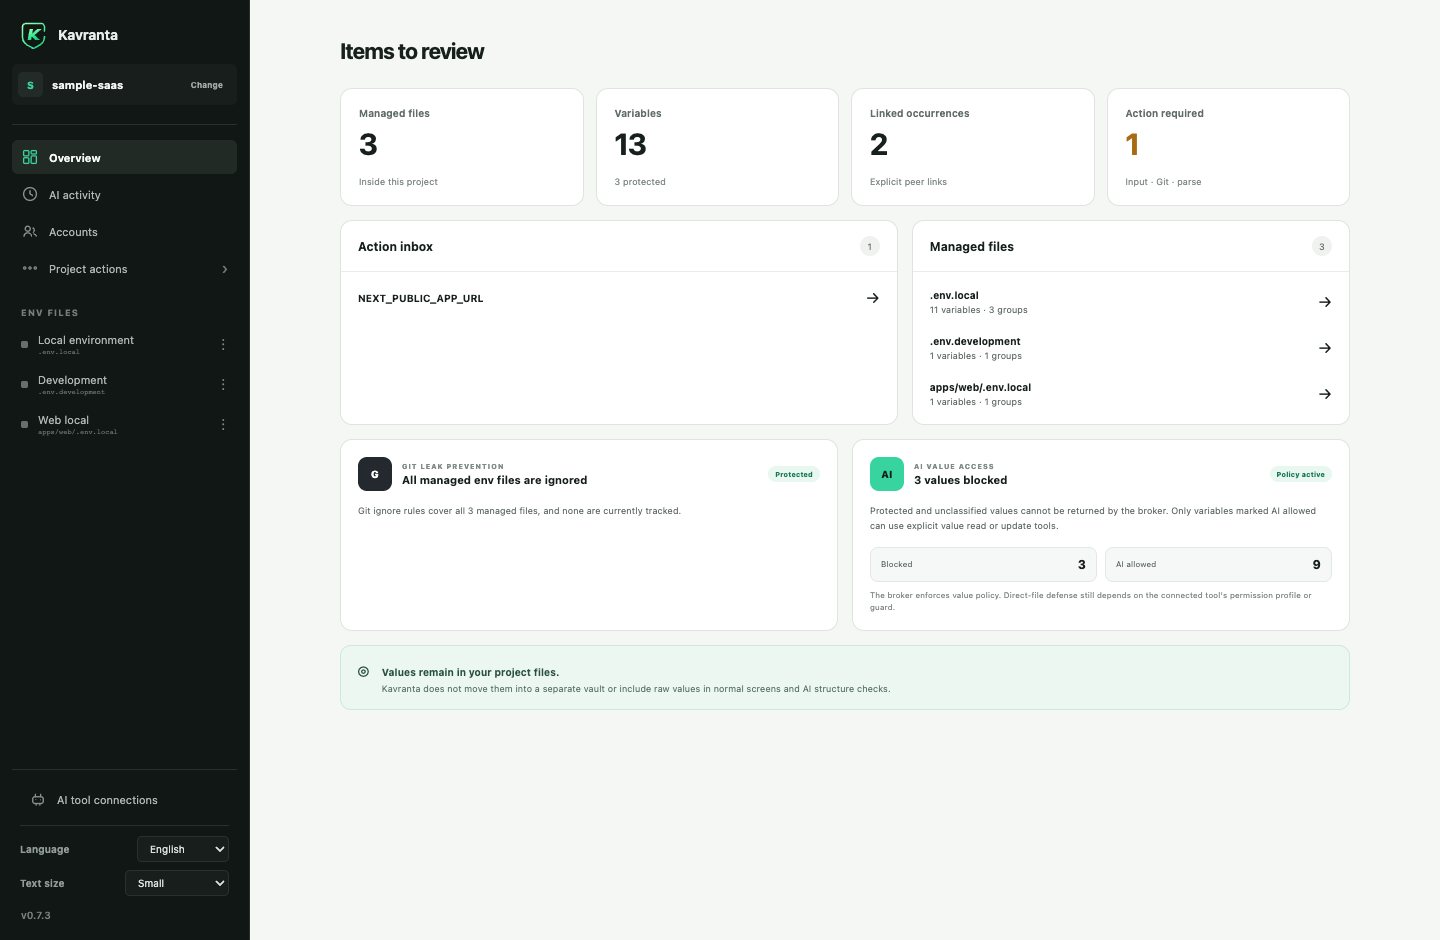
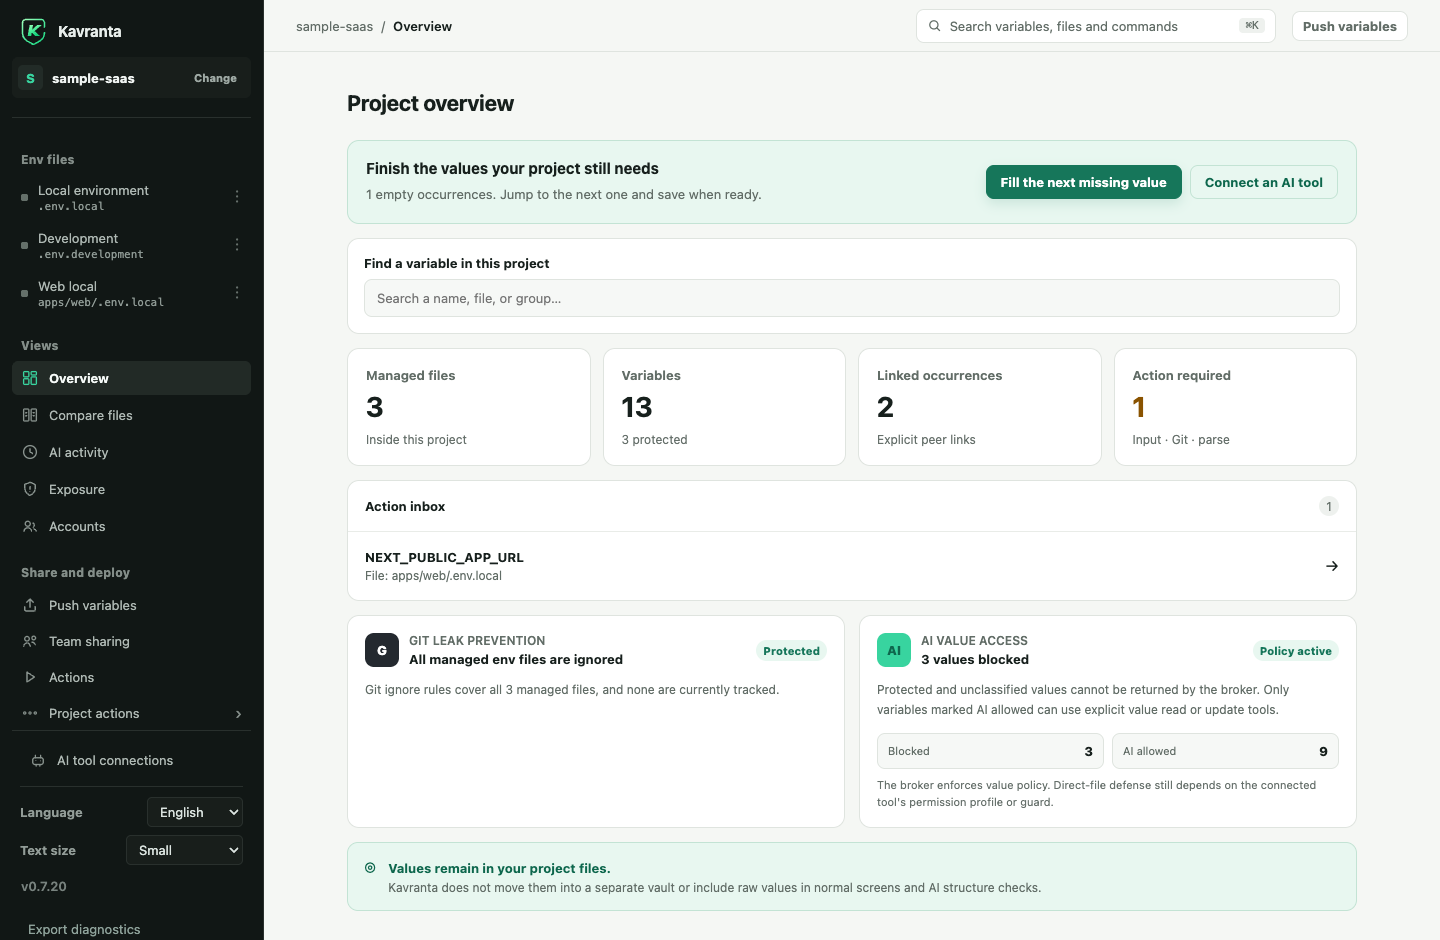
Kavranta 0.7.20: a redesigned workspace
Version bump plus release notes and refreshed README/README.ko for the
redesign: new sections and screenshots for Compare files, the Source view,
the Cmd+K palette and the push review step, updated first-run steps for
staged saves, and the Claude desktop app detection note.

The README media script follows the new navigation (sidebar Push, Team
sharing and Compare entries, Project actions menu) and captures the four new
screens. Demo-mode comparison data is now a curated synthetic table so the
screenshot shows differing, identical and missing rows.

0.7.x per RELEASE_MATURITY.md: a UI redesign with no storage change does not
open a new minor. Agent Bundle stays 2.7.0.

diff --git a/src/lib/demo.ts b/src/lib/demo.ts
@@ -281,30 +281,28 @@ function demoVariable(
   };
 }
 
-export const demoComparison: ValueComparison = (() => {
-  const files = demoProjection.files.map((file) => file.path);
-  const keys = [
-    ...new Set(demoProjection.files.flatMap((file) => file.groups.flatMap((group) => group.variables.map((variable) => variable.key)))),
-  ].sort();
-  return {
-    files,
-    rows: keys.map((key, keyIndex) => {
-      const seen: number[] = [];
-      return {
-        key,
-        cells: demoProjection.files.map((file, fileIndex): ValueComparisonCell => {
-          const variable = file.groups.flatMap((group) => group.variables).find((entry) => entry.key === key);
-          if (!variable) return { state: "missing" };
-          if (variable.valueState === "empty") return { state: "empty" };
-          // Every third name holds a different value in each file; the rest match.
-          const token = keyIndex % 3 === 0 ? fileIndex : -1;
-          if (!seen.includes(token)) seen.push(token);
-          return { state: "present", group: seen.indexOf(token) };
-        }),
-      };
-    }),
-  };
-})();
+const same = (group: number): ValueComparisonCell => ({ state: "present", group });
+const missing: ValueComparisonCell = { state: "missing" };
+const empty: ValueComparisonCell = { state: "empty" };
+
+/** Synthetic equality states only; demo mode never has values to compare. */
+export const demoComparison: ValueComparison = {
+  files: [".env.local", ".env.development", "apps/web/.env.local"],
+  rows: [
+    { key: "APP_ENV", cells: [same(0), same(1), same(2)] },
+    { key: "DATABASE_POOL_SIZE", cells: [same(0), same(0), missing] },
+    { key: "DATABASE_SCHEMA", cells: [same(0), same(0), same(0)] },
+    { key: "DATABASE_URL", cells: [same(0), same(1), missing] },
+    { key: "ENABLE_CACHE", cells: [same(0), same(0), same(0)] },
+    { key: "GPT_API_KEY", cells: [same(0), same(0), same(0)] },
+    { key: "GPT_MODEL", cells: [same(0), same(1), same(1)] },
+    { key: "LOG_LEVEL", cells: [same(0), same(1), same(0)] },
+    { key: "NEXT_PUBLIC_APP_URL", cells: [missing, missing, empty] },
+    { key: "OPENAI_BASE_URL", cells: [same(0), same(0), same(0)] },
+    { key: "PORT", cells: [same(0), same(0), same(1)] },
+    { key: "SESSION_TTL", cells: [same(0), empty, missing] },
+  ],
+};
 
 export function demoRedactedSource(path: string): RedactedSourceLine[] {
   const file = demoProjection.files.find((entry) => entry.path === path);

diff --git a/README.md b/README.md
@@ -29,10 +29,11 @@ the [first-launch notes](#windows-first-launch) before installing.
 
 1. Open Kavranta and choose your existing project folder. Registration discovers
    supported files without changing them.
-2. Open a file, turn on **Missing values only**, and fill one empty variable. If all
-   values are present, review an existing variable instead.
-3. Check which files Save will affect, then save when ready. Keep using your normal
-   development command. Same-name variables are independent unless you link them.
+2. Open a file, choose the **Empty** filter, and type a value. Edits stay pending
+   (highlighted, with Revert) until you save, so you can fill several at once.
+3. The save bar lists every file Save will touch. Press **Save** or ⌘S when ready,
+   then keep using your normal development command. Same-name variables are
+   independent unless you link them.
 
 Connecting an AI agent is optional. No hosted account or new runtime is required
 for local editing. If no files appear, follow the project's setup guide and refresh;
@@ -45,7 +46,7 @@ example/template files are intentionally excluded and are not copied automatical
 <details>
   <summary>Watch the broader workflow (synthetic data)</summary>
 
-![Kavranta demo showing project overview, env editing, AWS deployment, team sharing, and AI tool connections](assets/screenshots/kavranta-demo.gif)
+![Kavranta demo showing the project overview, file table, source view, file comparison, ⌘K search, AWS push, and AI tool connections](assets/screenshots/kavranta-demo.gif)
 
 </details>
 
@@ -71,30 +72,56 @@ Kavranta is a local-first desktop app. Register a project and it discovers the r
 | **Share without committing env files** | **Deploy only what you select** | **Catch Git mistakes early** |
 | Export all or selected variables as a passphrase-encrypted package, or publish immutable packages through a mounted team folder. | Send selected values to GitHub Actions, Cloudflare Workers, Expo EAS, AWS, or a locally installed CLI Pack without creating a temporary env file. | Detect missing ignore rules, already tracked env files, historical paths, and suspicious public frontend variable names. |
 | **Finish incomplete setup faster** | **Keep reusable accounts out of project files** | **Grant access per project** |
-| Filter an env file to only variables that still need a value, with the remaining count visible at a glance. | Store optional usernames and passwords in Apple Keychain or Windows Credential Manager instead of `.env`, Git, or Kavranta's local metadata. | New accounts start blocked. Explicitly allow or revoke each project; a grant never lets an AI agent run a login on its own. |
+| Filter an env file to empty, pending, or AI-blocked variables, stage several edits, and save them together with ⌘S. | Store optional usernames and passwords in Apple Keychain or Windows Credential Manager instead of `.env`, Git, or Kavranta's local metadata. | New accounts start blocked. Explicitly allow or revoke each project; a grant never lets an AI agent run a login on its own. |
+| **See which files disagree** | **Review before anything leaves** | **Find anything with ⌘K** |
+| Compare every variable across local, development, and app env files. Kavranta shows only same/different/missing—never the values. | Every push shows the destination, source file, and each name first, and warns when a provider cannot undo a replacement. | Jump to any variable, file, view, or command by name. ⌘↵ copies a value without opening the file. Search never reads values. |
 
 ## See the workflow
 
-### Included in the 0.7.6 release
+### New in 0.7.20: a redesigned workspace
 
-Project-wide metadata search, direct navigation to a missing variable, and combined
-name/missing-value filters are implemented in this source tree. Search does not
-inspect values, and changing filters preserves unsaved drafts. The separate
-[website](https://haechan1103.github.io/kavranta/) includes an EN/KO sample-linking
-playground hosted as static assets on GitHub Pages.
+The whole app was rebuilt around how env files are actually edited: one table per
+file, a details panel beside it, and changes you review before they are written.
+It follows your system's light or dark appearance and uses one readable type scale
+throughout.
+
+<table>
+  <tr>
+    <td width="50%"><strong>Compare files</strong><br />Every name against every env file: Set, Value A/B/C, Empty, or Missing. "Differences only" shows what needs attention. Equality is computed in Rust; no value reaches the screen.</td>
+    <td width="50%"><strong>Source view</strong><br />See the file exactly as it is laid out—comments, groups, and order—with every value masked. Commented-out secrets and unreadable lines are withheld entirely.</td>
+  </tr>
+  <tr>
+    <td><img src="assets/screenshots/kavranta-compare-files.png" alt="Compare files view showing which variables differ across three env files without showing values" /></td>
+    <td><img src="assets/screenshots/kavranta-source-view.png" alt="Source view of an env file with comments, groups, and masked values" /></td>
+  </tr>
+  <tr>
+    <td width="50%"><strong>⌘K palette</strong><br />Search variable names, files, views, and commands from anywhere. It says plainly that it never searches values.</td>
+    <td width="50%"><strong>Push review</strong><br />Confirm the destination, source file, and every name before a value leaves your computer.</td>
+  </tr>
+  <tr>
+    <td><img src="assets/screenshots/kavranta-command-palette.png" alt="Command palette listing matching variable names" /></td>
+    <td><img src="assets/screenshots/kavranta-push-review.png" alt="Push review step listing destination, source file, and variable names" /></td>
+  </tr>
+</table>
+
 See [ROADMAP.md](ROADMAP.md) for verification gates and work still outstanding.
 
 ### Organize real env files, not copies
 
-Projects and files can have local display names while their physical paths remain visible and unchanged. Values are masked by default; variable names can be copied, groups can be jumped to quickly, and linked rows show every file affected by Save.
+Each file is one table: name and description, the masked value with reveal and copy,
+AI access, and which other files share the key. Click a row for its details—description,
+linked files, setup guide, recent AI activity—without leaving the table. Edits and
+deletions stay pending until you save, and the save bar names every file Save will
+touch, including linked members. Projects and files can have display names while
+their physical paths stay visible and unchanged.
 
-![Kavranta file editor with masked synthetic values, linked files, and group navigation](assets/screenshots/kavranta-editor.png)
+![Kavranta file editor table with a pending edit, the details panel, and the save bar](assets/screenshots/kavranta-editor.png)
 
 ### Know what needs attention
 
 The project overview combines missing values, parse warnings, Git leak checks, and
 managed-file navigation without reading values for those checks. AI policy stays in
-the owning variable row. Inside a file, turn on **Missing values only** to focus on
+the owning variable row. Inside a file, choose the **Empty** filter to focus on
 unfinished setup.
 
 ![Kavranta project overview with Git safety and AI access status](assets/screenshots/kavranta-overview.png)
@@ -139,7 +166,7 @@ For a server env file outside a project, an administrator can install the fixed 
 
 ![Compare selected local variables with an allowlisted server Runtime through the encrypted verifier](assets/screenshots/kavranta-runtime-compare.png)
 
-Provider push is always explicit and one-way. GitHub and Cloudflare secret values cannot be read back, so Kavranta does not pretend to verify them. AWS and registered Runtime targets expose a separate comparison operation that returns only equality states. Unselected remote entries are never deleted.
+Every push opens a review step before anything is sent: destination, source file, each name with its remote type, and a warning when the provider keeps no previous value. Provider push is always explicit and one-way. GitHub and Cloudflare secret values cannot be read back, so Kavranta does not pretend to verify them. AWS and registered Runtime targets expose a separate comparison operation that returns only equality states. Unselected remote entries are never deleted.
 
 ## Supported deployment targets
 
@@ -198,6 +225,9 @@ OpenCode after installation or an update.
 claude plugin marketplace add haechan1103/kavranta
 claude plugin install kavranta@kavranta
 ```
+
+On macOS, Kavranta also detects the Claude Code copy bundled with the Claude desktop
+app, so the connection can be installed from the AI tools screen without a separate CLI.
 </details>
 
 <details>

diff --git a/RELEASE_NOTES.md b/RELEASE_NOTES.md
@@ -1,23 +1,37 @@
-# Kavranta 0.7.19 — Dependency security fixes
+# Kavranta 0.7.20 — A redesigned workspace
 
-- **Three dependency advisories are resolved.** `aws-smithy-json` reached `0.61.9` through
-  the AWS SDK crates the provider push uses, and the advisory covers `<= 0.62.6`. Because
-  those crates were pinned to exact versions, the fix moves the pins: `aws-config` `1.12.0`,
-  `aws-sdk-secretsmanager` `1.120.0`, `aws-sdk-ssm` `1.128.0`, `aws-sdk-kms` `1.123.0`,
-  `aws-sdk-sts` `1.119.0`. The tree now resolves to a single `aws-smithy-json 0.63.1`, past
-  the patched `0.62.7`. `rustls` moved to `0.23.45` for its TLS 1.3 advisory. A
-  `source-map-js` override pins `^1.2.2`; that one is build- and test-time only and never
-  ships.
-- **Dependency auditing now runs in CI.** A daily schedule, a lockfile push to `main`, and a
-  manual run check `cargo audit` over `Cargo.lock` and `npm audit --audit-level=high` over
-  `package-lock.json`. The existing dependency review only inspects the packages a pull
-  request adds, so an advisory published later against a dependency that has been present
-  for months was invisible. These three arrived that way and were reported by email instead
-  of by a failing build. That is what changed.
+- **One table per env file.** Each row shows the name and description, the masked
+  value with reveal and copy, AI access, and which other files share the key. Filter
+  by Empty, Pending, or AI cannot read; select rows to mark several for deletion.
+- **Edits are staged and saved together.** Typed values and deletions stay pending,
+  highlighted with Revert, until you press Save or ⌘S. The save bar names every file
+  Save will touch, including linked members, asks once before deleting, and keeps any
+  item that failed pending with its name. Leaving a file with pending changes asks
+  first, and a file changed outside Kavranta keeps what you typed.
+- **A details panel beside the table.** Click a row for its description, AI access,
+  linked files, setup guide, recent AI activity, Move, and Mark for deletion. On narrow
+  windows it opens as a drawer; ⌘I toggles it.
+- **Compare files.** A new view lists every variable against every env file as Set,
+  Value A/B/C, Empty, Missing, or Defined twice, with "Differences only". Equality is
+  computed in Rust per request; no value, length, or hash is returned, stored, or
+  offered to AI agents.
+- **Source view.** A Table / Source switch shows the file's own order, comments, and
+  groups with every value masked. Commented-out assignments, secret-like comments, and
+  unreadable lines are withheld by the backend.
+- **Review before pushing.** Push variables now shows the destination, source file,
+  each name with its remote type, and a warning when the provider keeps no previous
+  value. Nothing is sent until you press Push on that step.
+- **⌘K search and a top bar.** Find any variable name, file, view, or command from
+  anywhere; ⌘↵ copies a value without opening the file. Search never reads values.
+- **Readable everywhere.** One type scale with platform minimum sizes, AA contrast,
+  plainer wording, app-owned confirmation dialogs, errors that stay until dismissed,
+  and automatic light or dark appearance. The sidebar lists env files first.
+- **Claude desktop app detection.** On macOS, the Claude Code copy bundled with the
+  Claude desktop app is detected, so the Kavranta connection installs without a
+  separate CLI.
 
-This release changes no application behavior beyond the dependency versions. It adds no
-background network access, sends nothing anywhere, and no value readback. The Agent Bundle
-remains **2.7.0**.
+This release adds no network access, telemetry, or value readback. Project manifests
+and app data from earlier versions load unchanged. The Agent Bundle remains **2.7.0**.
 
 ## Install
 
@@ -29,26 +43,38 @@ remains **2.7.0**.
 
 ---
 
-# Kavranta 0.7.19 — 의존성 보안 수정
+# Kavranta 0.7.20 — 새로 설계한 작업 화면
 
-- **의존성 권고 3건을 해결했습니다.** `aws-smithy-json`이 provider 푸시에 쓰는 AWS SDK
-  크레이트를 통해 `0.61.9`로 들어왔고, 권고 범위는 `<= 0.62.6`이었습니다. 해당 크레이트가
-  정확 버전으로 고정돼 있어 핀을 올렸습니다: `aws-config` `1.12.0`,
-  `aws-sdk-secretsmanager` `1.120.0`, `aws-sdk-ssm` `1.128.0`, `aws-sdk-kms` `1.123.0`,
-  `aws-sdk-sts` `1.119.0`. 이제 `aws-smithy-json 0.63.1` 단일 버전으로 해석되며, 패치된
-  `0.62.7`을 넘습니다. `rustls`는 TLS 1.3 권고로 `0.23.45`가 되었습니다.
-  `source-map-js`는 `^1.2.2`로 고정했으며, 이 패키지는 빌드·테스트 전용이라 배포물에
-  포함되지 않습니다.
-- **의존성 감사가 CI에서 돌아갑니다.** 매일 스케줄, `main`으로의 lockfile push, 수동
-  실행에서 `Cargo.lock`에 대한 `cargo audit`과 `package-lock.json`에 대한
-  `npm audit --audit-level=high`를 수행합니다. 기존 dependency review는 pull request가
-  추가한 패키지만 검사하므로, 수개월 전부터 있던 의존성에 나중에 공개된 권고는 보이지
-  않았습니다. 이번 3건이 정확히 그 경로로 왔고, 실패한 빌드가 아니라 이메일로
-  보고되었습니다. 그것을 바꿨습니다.
+- **env 파일마다 하나의 표.** 한 줄에 이름과 설명, 보기·복사가 되는 가려진 값, AI 접근,
+  같은 키를 쓰는 다른 파일이 나옵니다. 비어 있음·변경 대기·AI 읽기 불가로 거르고, 여러
+  행을 골라 한 번에 삭제 표시할 수 있습니다.
+- **수정은 모아 두었다가 한 번에 저장.** 입력한 값과 삭제는 저장 또는 ⌘S를 누를 때까지
+  되돌리기와 함께 대기 상태로 표시됩니다. 저장 바는 연결된 파일까지 저장으로 바뀌는
+  파일을 모두 알려주고, 삭제 전에는 한 번만 묻고, 실패한 항목은 이름과 함께 대기 상태로
+  남깁니다. 대기 중인 변경이 있으면 파일을 떠나기 전에 묻고, 다른 곳에서 파일이 바뀌어도
+  입력한 값은 유지합니다.
+- **표 옆의 상세 패널.** 행을 누르면 설명, AI 접근, 연결된 파일, 설정 가이드, 최근 AI 활동,
+  그룹 이동, 삭제 표시를 볼 수 있습니다. 좁은 창에서는 서랍으로 열리며 ⌘I로 여닫습니다.
+- **파일 비교.** 새 화면에서 모든 변수를 모든 env 파일과 맞대어 있음, 값 A/B/C, 비어 있음,
+  없음, 중복 정의로 보여주고 "차이만 보기"를 제공합니다. 같은지 여부는 요청마다 Rust에서
+  계산하며 값·길이·해시를 돌려주거나 저장하거나 AI 에이전트에 제공하지 않습니다.
+- **파일 원문 보기.** 표 / 파일 원문 전환으로 파일에 적힌 순서, 주석, 그룹을 값은 모두
+  가린 채 볼 수 있습니다. 주석 처리된 할당, 비밀처럼 보이는 주석, 해석할 수 없는 줄은
+  백엔드에서 내용을 보내지 않습니다.
+- **올리기 전 검토.** 환경변수 올리기가 보낼 곳, 가져올 파일, 변수별 원격 유형을 먼저
+  보여주고, 이전 값을 보관하지 않는 대상이면 경고합니다. 그 단계에서 올리기를 눌러야
+  전송됩니다.
+- **⌘K 검색과 상단 바.** 어디서든 변수 이름, 파일, 화면, 명령을 찾고, ⌘↵로 파일을 열지
+  않고 값을 복사합니다. 검색은 값을 읽지 않습니다.
+- **어디서나 읽기 쉽게.** 플랫폼 최소 크기를 지키는 하나의 글자 크기 체계, AA 대비, 더
+  쉬운 문구, 앱 자체 확인 창, 닫을 때까지 남는 오류, 자동 라이트·다크 모드를 적용했습니다.
+  사이드바는 env 파일을 맨 위에 둡니다.
+- **Claude 데스크톱 앱 감지.** macOS에서 Claude 데스크톱 앱에 포함된 Claude Code를
+  감지하므로, 별도 CLI 없이 Kavranta 연결을 설치할 수 있습니다.
 
-이 릴리스는 의존성 버전 외에 애플리케이션 동작을 바꾸지 않습니다. 백그라운드 네트워크
-접근을 추가하지 않고, 아무것도 전송하지 않으며, 값 되읽기도 없습니다. Agent Bundle은
-**2.7.0**으로 유지됩니다.
+이 릴리스는 네트워크 접근, 텔레메트리, 값 되읽기를 추가하지 않습니다. 이전 버전의
+프로젝트 매니페스트와 앱 데이터는 그대로 열립니다. Agent Bundle은 **2.7.0**으로
+유지됩니다.
 
 ## 설치
 
